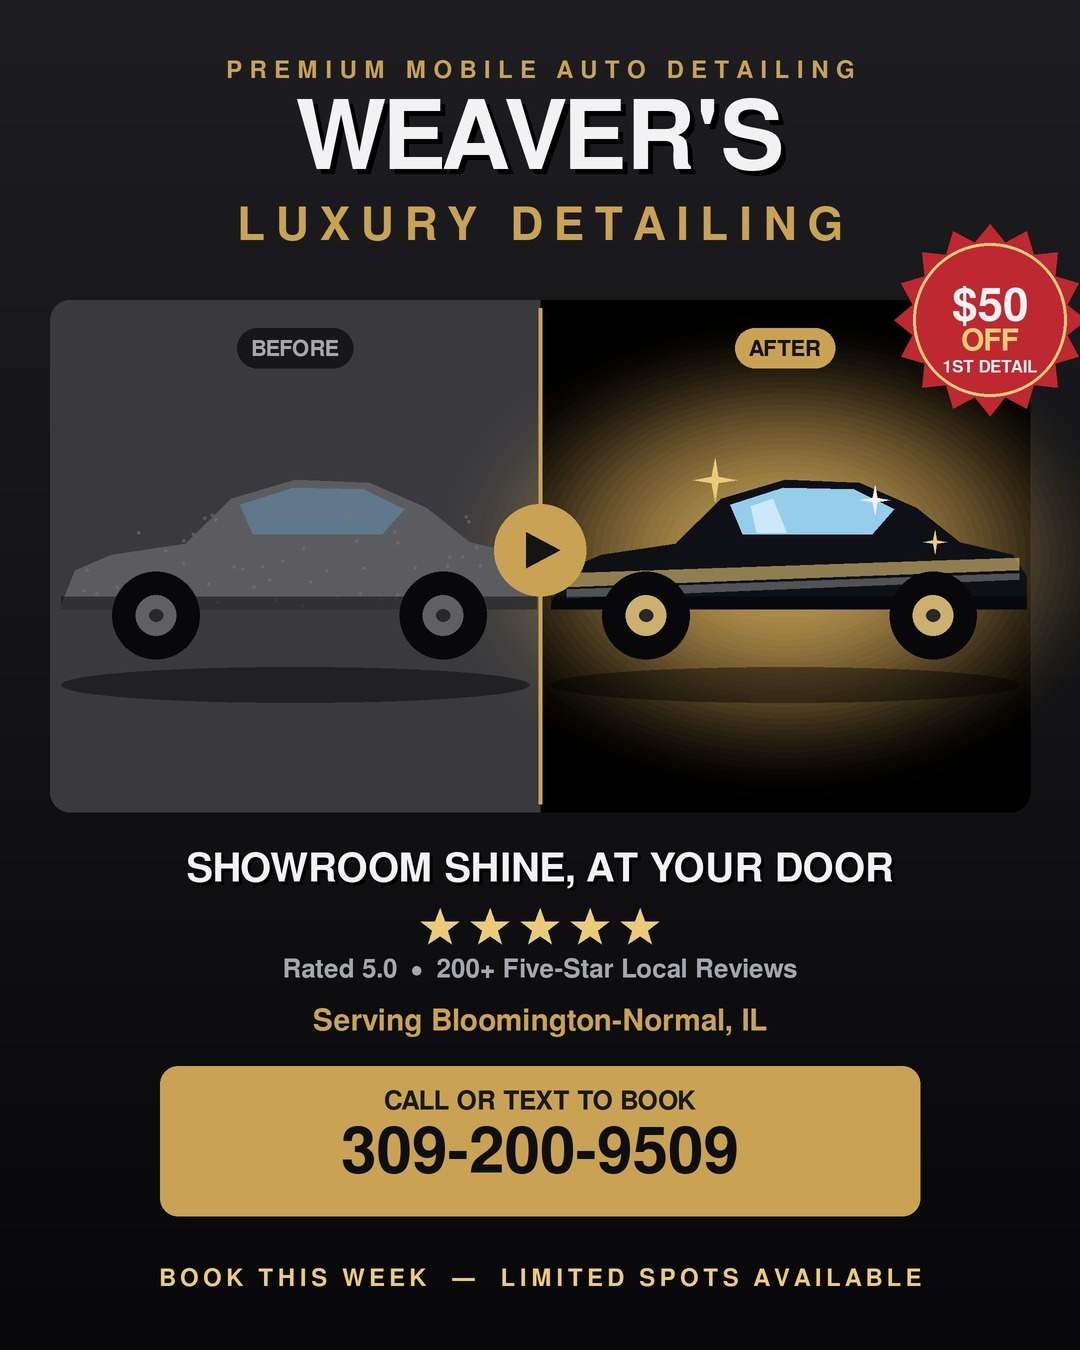
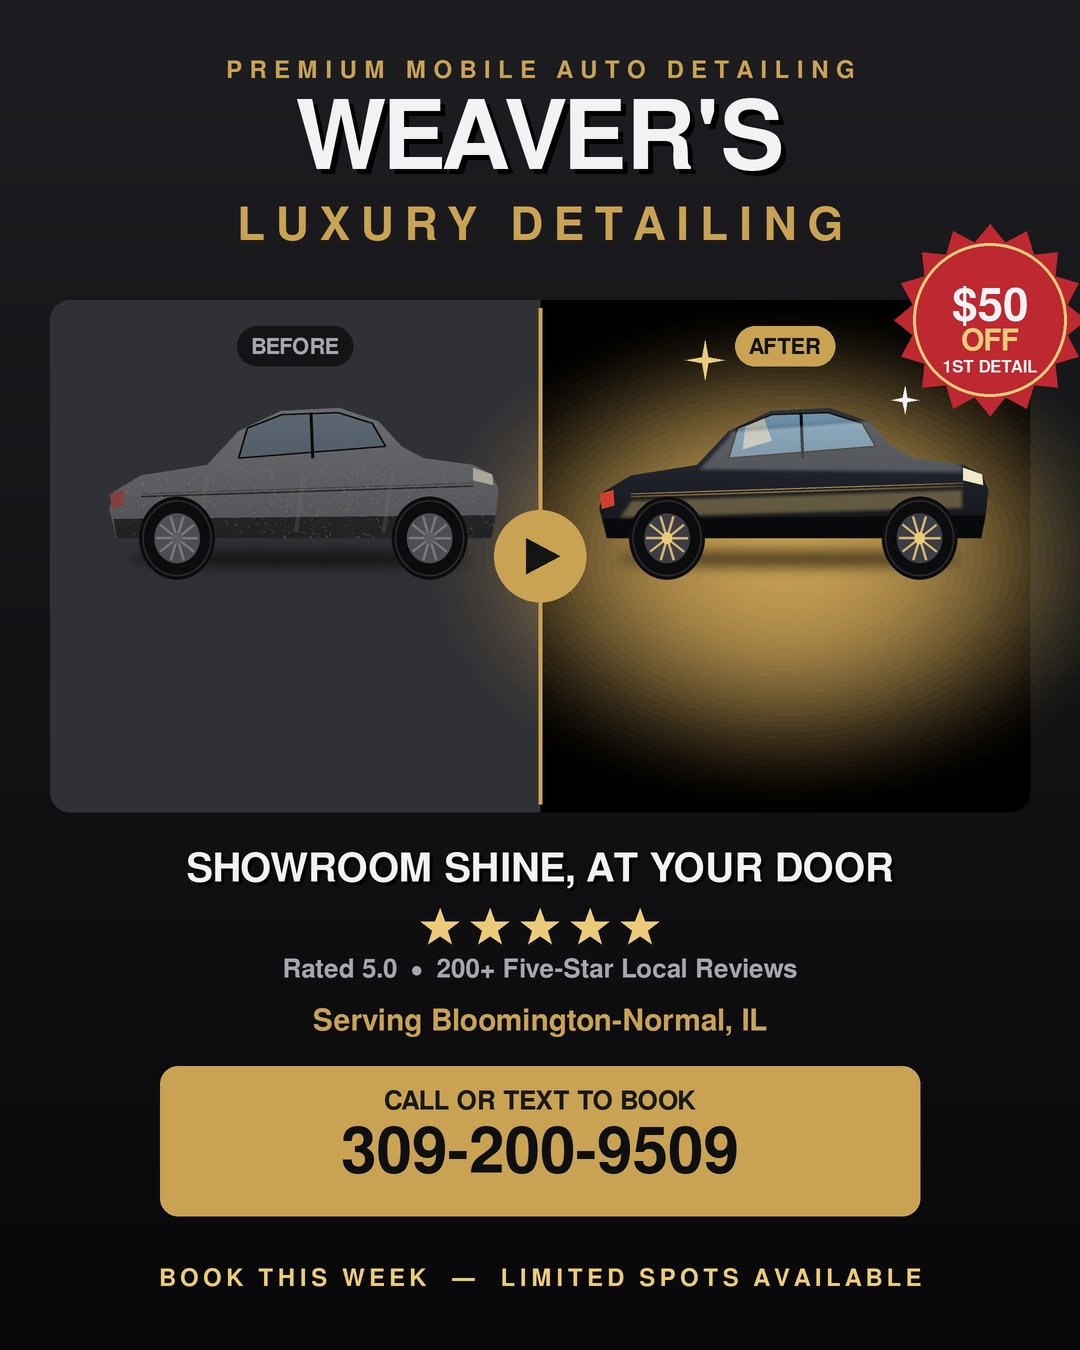
Replace silhouette cars with realistic rendered sedan in Weaver's ad

Changed region(s): [[0.0611, 0.2489, 0.9472, 0.5289]]

diff --git a/make_weavers_ad.py b/make_weavers_ad.py
@@ -1,14 +1,14 @@
 #!/usr/bin/env python3
-"""Conversion-optimized before/after ad creative for Weaver's Luxury Detailing."""
-import math
-from PIL import Image, ImageDraw, ImageFont
+"""Conversion-optimized before/after ad for Weaver's Luxury Detailing.
+Realistic rendered luxury sedan (no cartoon silhouettes)."""
+import math, random
+from PIL import Image, ImageDraw, ImageFont, ImageFilter, ImageChops
 
 W, H = 1080, 1350
 SS = 2
 CW, CH = W * SS, H * SS
 
 img = Image.new("RGB", (CW, CH), (10, 10, 12))
-draw = ImageDraw.Draw(img, "RGBA")
 
 def s(v):
     return int(round(v * SS))
@@ -21,7 +21,6 @@ GOLD = (201, 162, 84)
 GOLD_HI = (235, 203, 122)
 WHITE = (242, 242, 244)
 GRAY = (165, 167, 173)
-DARK = (16, 16, 18)
 
 # ---------- background charcoal gradient ----------
 top, bot = (30, 30, 34), (8, 8, 10)
@@ -34,7 +33,160 @@ for y in range(CH):
 draw = ImageDraw.Draw(img, "RGBA")
 cx = CW // 2
 
-# ---------- text helpers ----------
+# =================================================================
+#  REALISTIC CAR RENDERER
+# =================================================================
+def vgrad(w, h, c0, c1):
+    g = Image.new("RGB", (1, h))
+    gp = g.load()
+    for y in range(h):
+        t = y / max(1, h - 1)
+        gp[0, y] = tuple(int(c0[i] + (c1[i] - c0[i]) * t) for i in range(3))
+    return g.resize((w, h))
+
+def render_car(variant):
+    """Return an RGBA image (880x560 display) of a sleek luxury fastback sedan."""
+    HW, HH = 1760, 1120          # hi-res working canvas
+    sx, sy = HW / 1000.0, HH / 580.0
+    def P(x, y):
+        return (x * sx, y * sy)
+    def PL(pts):
+        return [P(*p) for p in pts]
+
+    car = Image.new("RGBA", (HW, HH), (0, 0, 0, 0))
+
+    # contact shadow
+    sh = Image.new("RGBA", (HW, HH), (0, 0, 0, 0))
+    ImageDraw.Draw(sh).ellipse([P(120, 470)[0], P(0, 478)[1], P(900, 470)[0], P(0, 512)[1]],
+                               fill=(0, 0, 0, 150))
+    sh = sh.filter(ImageFilter.GaussianBlur(int(14 * sx)))
+    car = Image.alpha_composite(car, sh)
+
+    # ----- body outline (fastback luxury sedan, facing right) -----
+    body = [
+        (95, 452), (78, 392), (88, 356), (150, 322), (300, 300),
+        (372, 230), (468, 188), (600, 182), (690, 210), (742, 262),
+        (792, 286), (905, 300), (948, 320), (962, 352), (956, 404),
+        (946, 452),
+    ]
+    bmask = Image.new("L", (HW, HH), 0)
+    ImageDraw.Draw(bmask).polygon(PL(body), fill=255)
+
+    # base paint gradient
+    if variant == "after":
+        paint = vgrad(HW, HH, (66, 72, 84), (4, 5, 8))      # deep glossy black
+    else:
+        paint = vgrad(HW, HH, (124, 125, 130), (70, 70, 74))  # dull gray
+    car.paste(paint.convert("RGBA"), (0, 0), bmask)
+
+    cd = ImageDraw.Draw(car, "RGBA")
+
+    # body character line (subtle crease along the doors)
+    cd.line(PL([(150, 360), (905, 338)]), fill=(255, 255, 255, 28), width=int(3 * sx))
+    cd.line(PL([(150, 366), (905, 344)]), fill=(0, 0, 0, 60), width=int(4 * sx))
+
+    # rocker / lower shadow
+    low = Image.new("RGBA", (HW, HH), (0, 0, 0, 0))
+    ImageDraw.Draw(low).polygon(PL([(95, 452), (946, 452), (956, 404), (88, 412)]),
+                                fill=(0, 0, 0, 150))
+    low.putalpha(ImageChops.multiply(low.split()[3], bmask))
+    car = Image.alpha_composite(car, low)
+    cd = ImageDraw.Draw(car, "RGBA")
+
+    # ----- greenhouse / windows -----
+    glass_poly = [(392, 224), (470, 196), (598, 192), (676, 214), (706, 262), (372, 286)]
+    gmask = Image.new("L", (HW, HH), 0)
+    ImageDraw.Draw(gmask).polygon(PL(glass_poly), fill=255)
+    if variant == "after":
+        glass = vgrad(HW, HH, (150, 198, 226), (28, 44, 66))
+    else:
+        glass = vgrad(HW, HH, (108, 120, 132), (60, 68, 78))
+    car.paste(glass.convert("RGBA"), (0, 0), gmask)
+    cd = ImageDraw.Draw(car, "RGBA")
+    # window frame
+    cd.line(PL(glass_poly + [glass_poly[0]]), fill=(0, 0, 0, 200), width=int(4 * sx))
+    # B-pillar
+    cd.line(PL([(536, 192), (540, 286)]), fill=(10, 10, 12, 255), width=int(7 * sx))
+    if variant == "after":
+        cd.polygon(PL([(410, 222), (452, 204), (470, 250), (404, 268)]),
+                   fill=(220, 240, 255, 150))   # windshield reflection
+
+    # ----- specular gloss highlights (after) -----
+    if variant == "after":
+        spec = Image.new("RGBA", (HW, HH), (0, 0, 0, 0))
+        sd = ImageDraw.Draw(spec, "RGBA")
+        # broad soft top reflection on roof/hood
+        sd.polygon(PL([(380, 232), (700, 208), (905, 300), (905, 318), (300, 312)]),
+                   fill=(255, 255, 255, 60))
+        # warm environment reflection band across doors (gold horizon)
+        sd.polygon(PL([(150, 372), (905, 350), (905, 392), (120, 412)]),
+                   fill=(235, 203, 122, 90))
+        # crisp top edge highlight
+        sd.line(PL([(372, 232), (690, 210)]), fill=(255, 255, 255, 150), width=int(4 * sx))
+        spec = spec.filter(ImageFilter.GaussianBlur(int(5 * sx)))
+        spec.putalpha(ImageChops.multiply(spec.split()[3], bmask))
+        car = Image.alpha_composite(car, spec)
+        cd = ImageDraw.Draw(car, "RGBA")
+    else:
+        # dust / grime overlay for before
+        dust = Image.new("RGBA", (HW, HH), (0, 0, 0, 0))
+        dd = ImageDraw.Draw(dust, "RGBA")
+        random.seed(11)
+        for _ in range(900):
+            dx = random.uniform(90, 950) * sx
+            dy = random.uniform(300, 450) * sy
+            r = random.uniform(1, 4) * sx
+            dd.ellipse([dx, dy, dx + r, dy + r], fill=(150, 138, 112, random.randint(40, 110)))
+        # a couple of grime streaks
+        for sxp in (300, 520, 720):
+            dd.line([P(sxp, 320)[0], P(sxp, 320)[1], P(sxp - 18, 440)[0], P(sxp - 18, 440)[1]],
+                    fill=(120, 110, 92, 70), width=int(10 * sx))
+        dust.putalpha(ImageChops.multiply(dust.split()[3], bmask))
+        car = Image.alpha_composite(car, dust)
+        cd = ImageDraw.Draw(car, "RGBA")
+
+    # headlight & taillight
+    cd.polygon(PL([(905, 306), (948, 320), (950, 342), (905, 332)]),
+               fill=(255, 246, 214, 235) if variant == "after" else (200, 196, 180, 200))
+    cd.polygon(PL([(80, 360), (110, 352), (112, 384), (84, 392)]),
+               fill=(220, 60, 50, 230) if variant == "after" else (150, 70, 66, 200))
+
+    # ----- wheels with alloy spokes -----
+    def wheel(cxw, cyw, r, variant):
+        # tire
+        cd.ellipse([P(cxw - r, cyw - r)[0], P(cxw - r, cyw - r)[1],
+                    P(cxw + r, cyw + r)[0], P(cxw + r, cyw + r)[1]], fill=(12, 12, 14))
+        # sidewall sheen
+        cd.ellipse([P(cxw - r * .92, cyw - r * .92)[0], P(cxw - r * .92, cyw - r * .92)[1],
+                    P(cxw + r * .92, cyw + r * .92)[0], P(cxw + r * .92, cyw + r * .92)[1]],
+                   outline=(40, 40, 44), width=int(4 * sx))
+        rr = r * 0.60
+        rim_c = (208, 178, 116) if variant == "after" else (120, 120, 124)
+        cd.ellipse([P(cxw - rr, cyw - rr)[0], P(cxw - rr, cyw - rr)[1],
+                    P(cxw + rr, cyw + rr)[0], P(cxw + rr, cyw + rr)[1]],
+                   fill=(60, 62, 68) if variant == "after" else (78, 78, 82))
+        # spokes
+        cxp, cyp = P(cxw, cyw)
+        for i in range(10):
+            a = i * (2 * math.pi / 10)
+            x1 = cxp + (rr * 0.18 * sx) * math.cos(a)
+            y1 = cyp + (rr * 0.18 * sy) * math.sin(a)
+            x2 = cxp + (rr * 0.92 * sx) * math.cos(a)
+            y2 = cyp + (rr * 0.92 * sy) * math.sin(a)
+            cd.line([x1, y1, x2, y2], fill=rim_c, width=int(6 * sx))
+        # hub
+        hc = (235, 203, 122) if variant == "after" else (95, 95, 99)
+        cd.ellipse([P(cxw - r * .14, cyw - r * .14)[0], P(cxw - r * .14, cyw - r * .14)[1],
+                    P(cxw + r * .14, cyw + r * .14)[0], P(cxw + r * .14, cyw + r * .14)[1]], fill=hc)
+
+    wheel(232, 452, 86, variant)
+    wheel(806, 452, 86, variant)
+
+    return car.resize((880, 560), Image.LANCZOS)
+
+# =================================================================
+#  LAYOUT
+# =================================================================
 def centered(cx, y, txt, fnt, fill, tracking=0, shadow=None, soff=4):
     if tracking == 0:
         b = draw.textbbox((0, 0), txt, font=fnt)
@@ -52,11 +204,6 @@ def centered(cx, y, txt, fnt, fill, tracking=0, shadow=None, soff=4):
             draw.text((x + s(soff), y - btop + s(soff)), ch, font=fnt, fill=shadow)
         draw.text((x, y - btop), ch, font=fnt, fill=fill)
         x += w + tracking
-
-def left_text(x, y, txt, fnt, fill):
-    b = draw.textbbox((0, 0), txt, font=fnt)
-    draw.text((x, y - b[1]), txt, font=fnt, fill=fill)
-    return b[2] - b[0]
 
 def star5(d, ox, oy, r, fill):
     pts = []
@@ -79,62 +226,28 @@ centered(cx, s(206), "LUXURY DETAILING", font(46), GOLD, tracking=s(10))
 # ---------- BEFORE / AFTER PANEL ----------
 pad = s(50)
 ptop, pbot = s(300), s(812)
-draw.rounded_rectangle([pad, ptop, CW - pad, pbot], radius=s(20), fill=(0, 0, 0, 255))
 midx = cx
-
-# left (before) background
-draw.rounded_rectangle([pad, ptop, midx, pbot], radius=s(20), fill=(58, 58, 62, 255))
-draw.rectangle([midx - s(20), ptop, midx, pbot], fill=(58, 58, 62, 255))
-# right (after) background with radial gold glow
-for rr in range(s(360), 0, -s(8)):
-    a = int(36 * (1 - rr / s(360)))
+draw.rounded_rectangle([pad, ptop, CW - pad, pbot], radius=s(20), fill=(0, 0, 0, 255))
+draw.rounded_rectangle([pad, ptop, midx, pbot], radius=s(20), fill=(48, 49, 53, 255))
+draw.rectangle([midx - s(20), ptop, midx, pbot], fill=(48, 49, 53, 255))
+# right radial gold glow
+for rr in range(s(380), 0, -s(8)):
+    a = int(40 * (1 - rr / s(380)))
     gx, gy = midx + (CW - pad - midx) // 2, (ptop + pbot) // 2
     draw.ellipse([gx - rr, gy - rr * 0.7, gx + rr, gy + rr * 0.7], fill=(201, 162, 84, a))
 
-# ---------- car drawing ----------
-def car(d, ox, oy, scale, body, gloss=False, dusty=False, rim=(120, 122, 130)):
-    def p(x, y):
-        return (ox + x * scale, oy + y * scale)
-    # shadow
-    d.ellipse([p(-300, 118)[0], p(0, 150)[1], p(300, 118)[0], p(0, 196)[1]], fill=(0, 0, 0, 110))
-    body_poly = [p(-300, 70), p(-282, 26), p(-235, 6), p(-140, -8),
-                 p(-82, -66), p(0, -90), p(95, -86), p(168, -54),
-                 p(224, -10), p(292, 6), p(310, 34), p(310, 76), p(-300, 76)]
-    d.polygon(body_poly, fill=body)
-    glass = [p(-70, -58), p(-2, -80), p(88, -78), p(140, -52), p(112, -20), p(-54, -20)]
-    d.polygon(glass, fill=(95, 120, 140) if not gloss else (150, 205, 235))
-    if gloss:
-        d.polygon([p(-44, -56), p(-16, -66), p(2, -22), p(-36, -22)], fill=(225, 245, 255, 180))
-        # gold gloss streak
-        d.polygon([p(-280, 30), p(300, 10), p(300, 26), p(-280, 48)], fill=(235, 203, 122, 150))
-        d.polygon([p(-280, 50), p(300, 30), p(300, 38), p(-280, 62)], fill=(255, 255, 255, 70))
-    if dusty:
-        import random
-        random.seed(3)
-        for _ in range(60):
-            dx = random.uniform(-280, 290); dy = random.uniform(-50, 70)
-            d.ellipse([p(dx, dy)[0], p(dx, dy)[1], p(dx, dy)[0] + s(3), p(dx, dy)[1] + s(3)],
-                      fill=(120, 116, 105, 150))
-    # lower shade
-    d.polygon([p(-300, 60), p(310, 60), p(310, 76), p(-300, 76)], fill=(0, 0, 0, 120))
-    # wheels
-    for wxp in (-178, 190):
-        d.ellipse([p(wxp - 56, 28)[0], p(wxp - 56, 28)[1], p(wxp + 56, 28)[0], p(wxp + 56, 140)[1]],
-                  fill=(8, 8, 10))
-        d.ellipse([p(wxp - 26, 58)[0], p(wxp - 26, 58)[1], p(wxp + 26, 58)[0], p(wxp + 26, 110)[1]],
-                  fill=rim)
-        d.ellipse([p(wxp - 9, 76)[0], p(wxp - 9, 76)[1], p(wxp + 9, 76)[0], p(wxp + 9, 92)[1]],
-                  fill=(40, 40, 44))
+# paste cars
+car_before = render_car("before")
+car_after = render_car("after")
+cary = s(320)
+img.paste(car_before, (int((pad + midx) / 2 - 440), cary), car_before)
+img.paste(car_after, (int((midx + CW - pad) / 2 - 440), cary), car_after)
+draw = ImageDraw.Draw(img, "RGBA")
 
-car_y = ptop + s(250)
-# BEFORE car (dull gray, dusty)
-car(draw, (pad + midx) // 2, car_y, SS * 0.78, (92, 92, 96), gloss=False, dusty=True, rim=(96, 96, 100))
-# AFTER car (black glossy + gold shine)
+# after sparkles (gloss accents)
 acx = (midx + CW - pad) // 2
-car(draw, acx, car_y, SS * 0.78, (14, 16, 22), gloss=True, rim=(205, 175, 110))
-sparkle(draw, acx - s(70), car_y - s(70), s(22), GOLD_HI)
-sparkle(draw, acx + s(90), car_y - s(50), s(15), WHITE)
-sparkle(draw, acx + s(150), car_y - s(8), s(12), GOLD_HI)
+sparkle(draw, acx - s(80), cary // SS * 0 + s(360), s(20), GOLD_HI)
+sparkle(draw, acx + s(120), s(400), s(14), WHITE)
 
 # labels
 def tag(xc, y, txt, bg, fg):
@@ -145,22 +258,22 @@ def tag(xc, y, txt, bg, fg):
     draw.rounded_rectangle([xc - pw / 2, y, xc + pw / 2, y + ph], radius=s(20), fill=bg)
     draw.text((xc - tw / 2, y + (ph - (b[3] - b[1])) / 2 - b[1]), txt, font=f, fill=fg)
 
-tag((pad + midx) // 2, ptop + s(28), "BEFORE", (20, 20, 22, 235), GRAY)
-tag(acx, ptop + s(28), "AFTER", GOLD, (20, 20, 20))
+tag((pad + midx) // 2, ptop + s(26), "BEFORE", (18, 18, 20, 240), GRAY)
+tag(acx, ptop + s(26), "AFTER", GOLD, (20, 20, 20))
 
-# center divider + arrow circle
+# center divider + arrow
 draw.line([midx, ptop + s(8), midx, pbot - s(8)], fill=GOLD, width=s(4))
 acr = s(46)
-draw.ellipse([midx - acr, car_y - acr, midx + acr, car_y + acr], fill=GOLD)
-draw.polygon([(midx - s(14), car_y - s(18)), (midx + s(20), car_y),
-              (midx - s(14), car_y + s(18))], fill=(20, 20, 20))
+arry = (ptop + pbot) // 2
+draw.ellipse([midx - acr, arry - acr, midx + acr, arry + acr], fill=GOLD)
+draw.polygon([(midx - s(14), arry - s(18)), (midx + s(20), arry),
+              (midx - s(14), arry + s(18))], fill=(20, 20, 20))
 
-# ---------- OFFER BADGE (starburst) ----------
+# ---------- OFFER BADGE ----------
 bx, by, br = CW - pad - s(40), ptop + s(20), s(96)
 burst = []
-spikes = 16
-for i in range(spikes * 2):
-    ang = i * math.pi / spikes
+for i in range(32):
+    ang = i * math.pi / 16
     rr = br if i % 2 == 0 else br * 0.82
     burst.append((bx + rr * math.cos(ang), by + rr * math.sin(ang)))
 draw.polygon(burst, fill=(190, 40, 48))
@@ -173,12 +286,10 @@ centered(bx, by + s(40), "1ST DETAIL", font(17), WHITE)
 centered(cx, s(852), "SHOWROOM SHINE, AT YOUR DOOR", font(40), WHITE, shadow=(0, 0, 0, 140), soff=3)
 
 # ---------- STARS + social proof ----------
-sy = s(928)
-star_r = s(20)
-gap = s(50)
+sy_ = s(928); gap = s(50)
 startx = cx - (gap * 4) / 2
 for i in range(5):
-    star5(draw, startx + i * gap, sy, star_r, GOLD_HI)
+    star5(draw, startx + i * gap, sy_, s(20), GOLD_HI)
 centered(cx, s(958), "Rated 5.0  •  200+ Five-Star Local Reviews", font(26), GRAY)
 
 # ---------- location ----------
